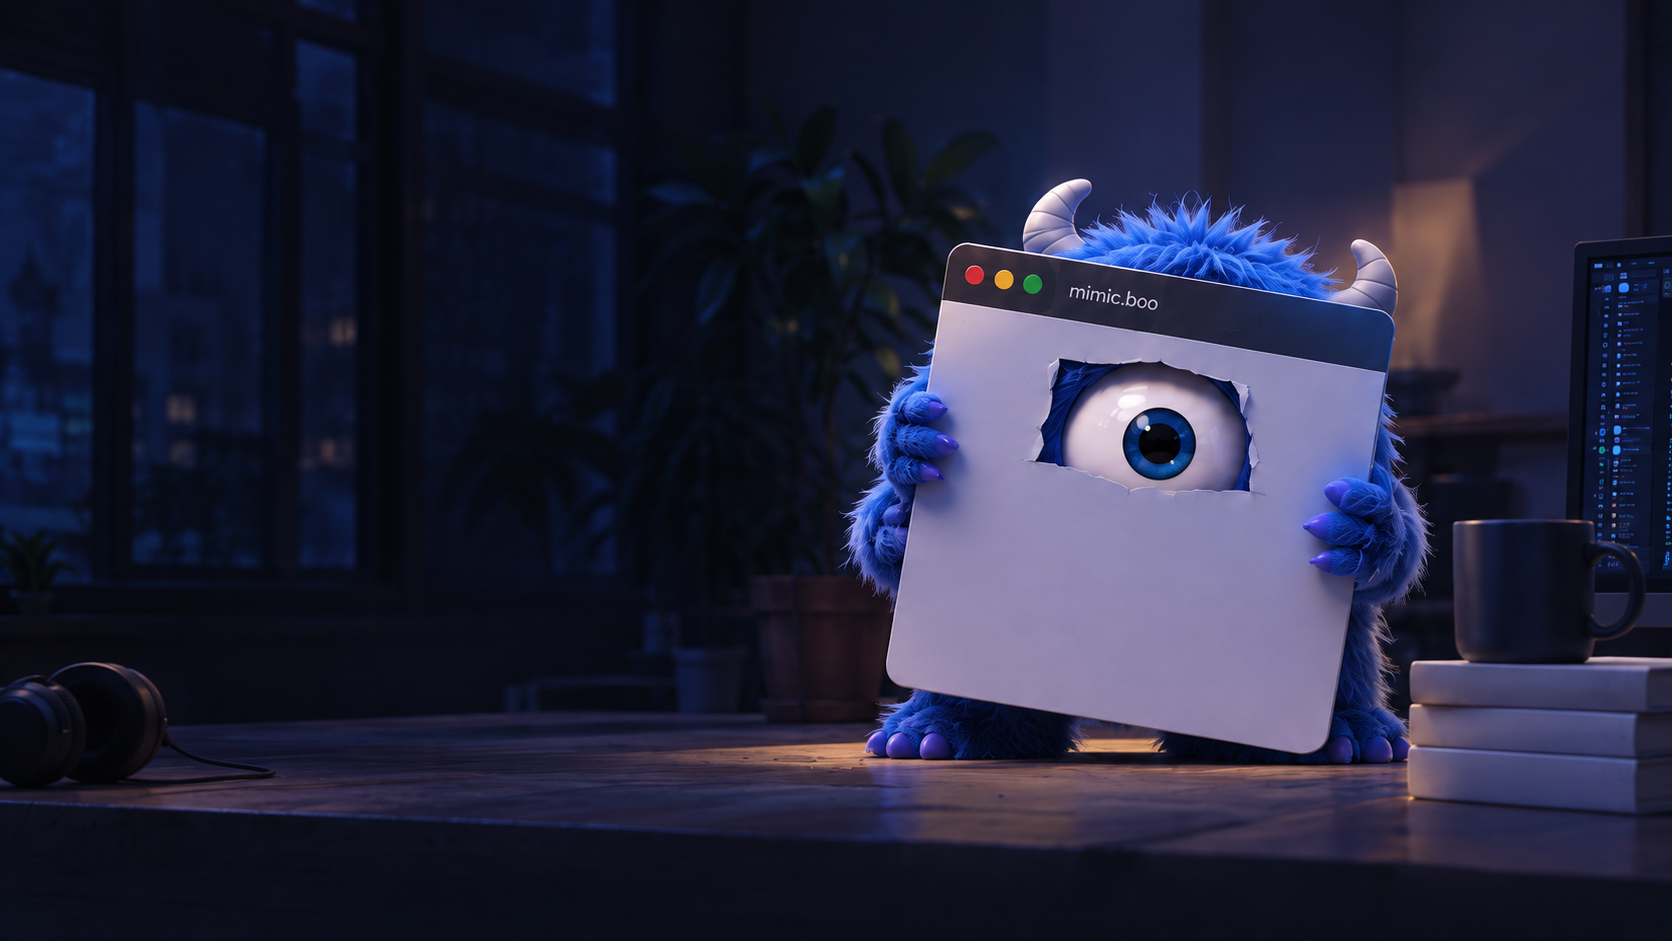
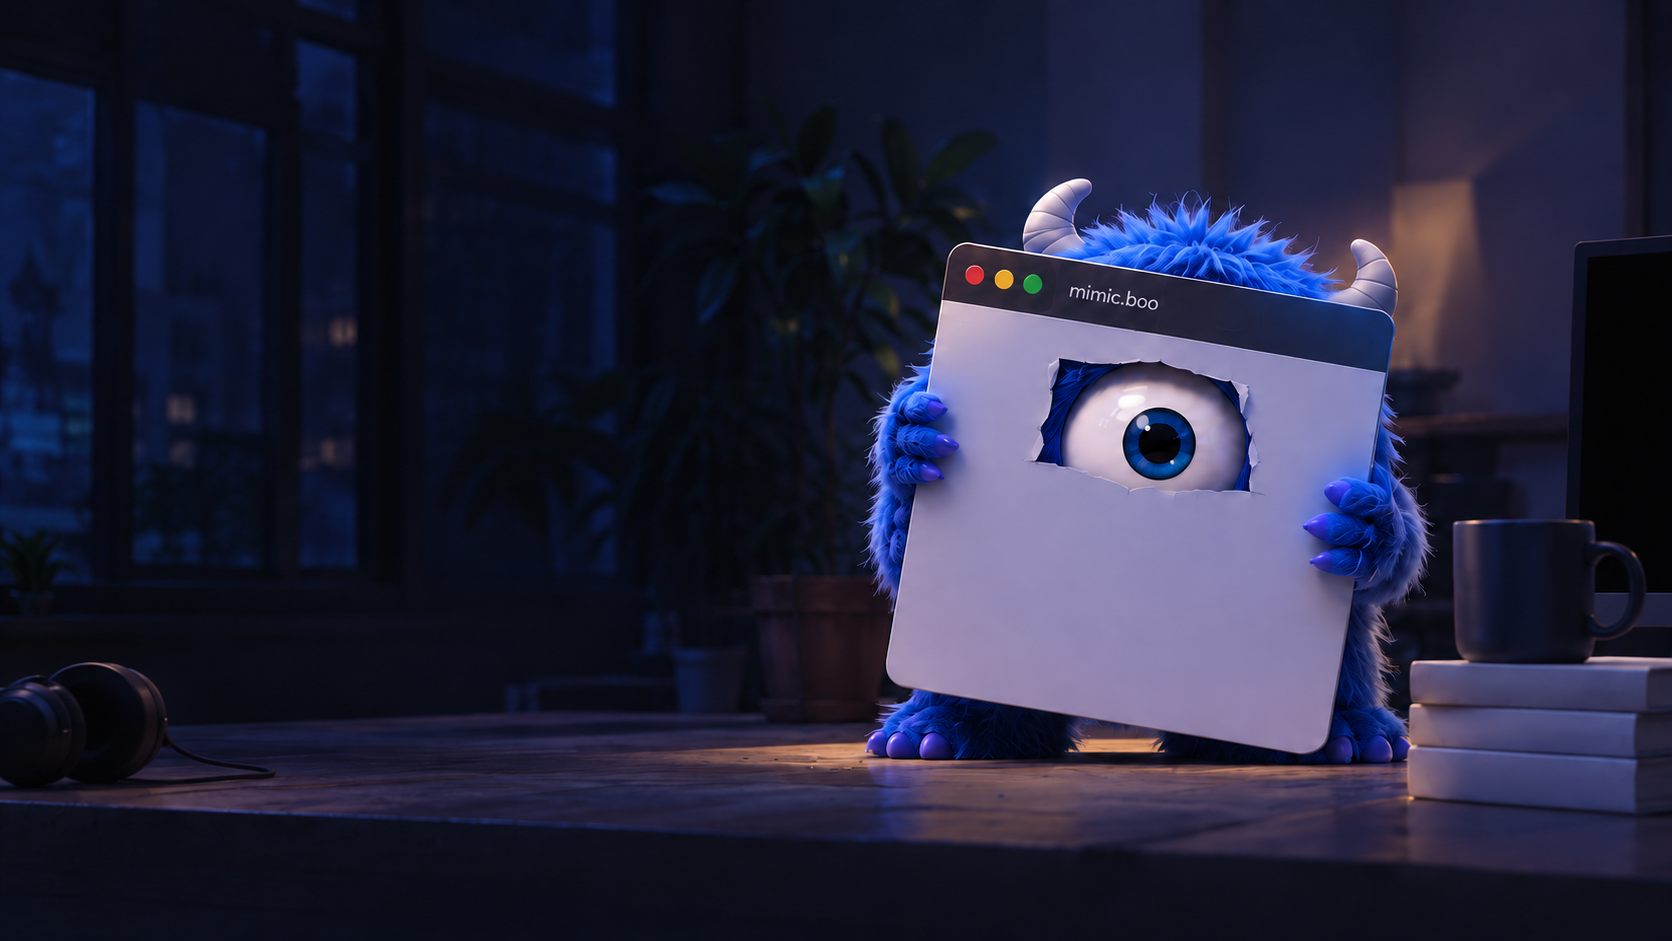
style(site): compact contact options and correct mascot extra paw

diff --git a/assets/mascot-provenance.md b/assets/mascot-provenance.md
@@ -9,3 +9,10 @@ Final prompt: Generate only the landscape hero artwork, closely matching the ref
 ## Banner — public/images/mascot-banner.png
 
 Final prompt: Create a second landscape scene of the exact same mascot and browser board, with the character on the left behind an open dark laptop. Keep the mouth hidden. Detailed blue-violet studio, leafy plants, shelves and warm desk lamp; quiet dark right side for HTML copy. No slogans, sticky notes or labels; only tiny mimic.boo on the browser bar.
+
+## Minimal hero correction — October 1, 2026
+
+Saved to public/images/mascot-hero.png. Edited the original hero, preserving its leaning pose and tilted board. Removed only the extra lower left paw and switched off the background monitor. The symmetrical alternatives were discarded.
+
+Final prompt: Precise minimal edit of the existing artwork. Preserve the asymmetric leaning pose, tilted browser board, horns, eye, feet, fur, framing, lighting and props. Remove the extra lower paw below the upper left gripping hand, replace it with continuous blue body fur. Keep both existing gripping hands unchanged. Switch off the far-right monitor, preserving its frame and position. Do not straighten or redesign anything. Keep tiny mimic.boo title text.
+
